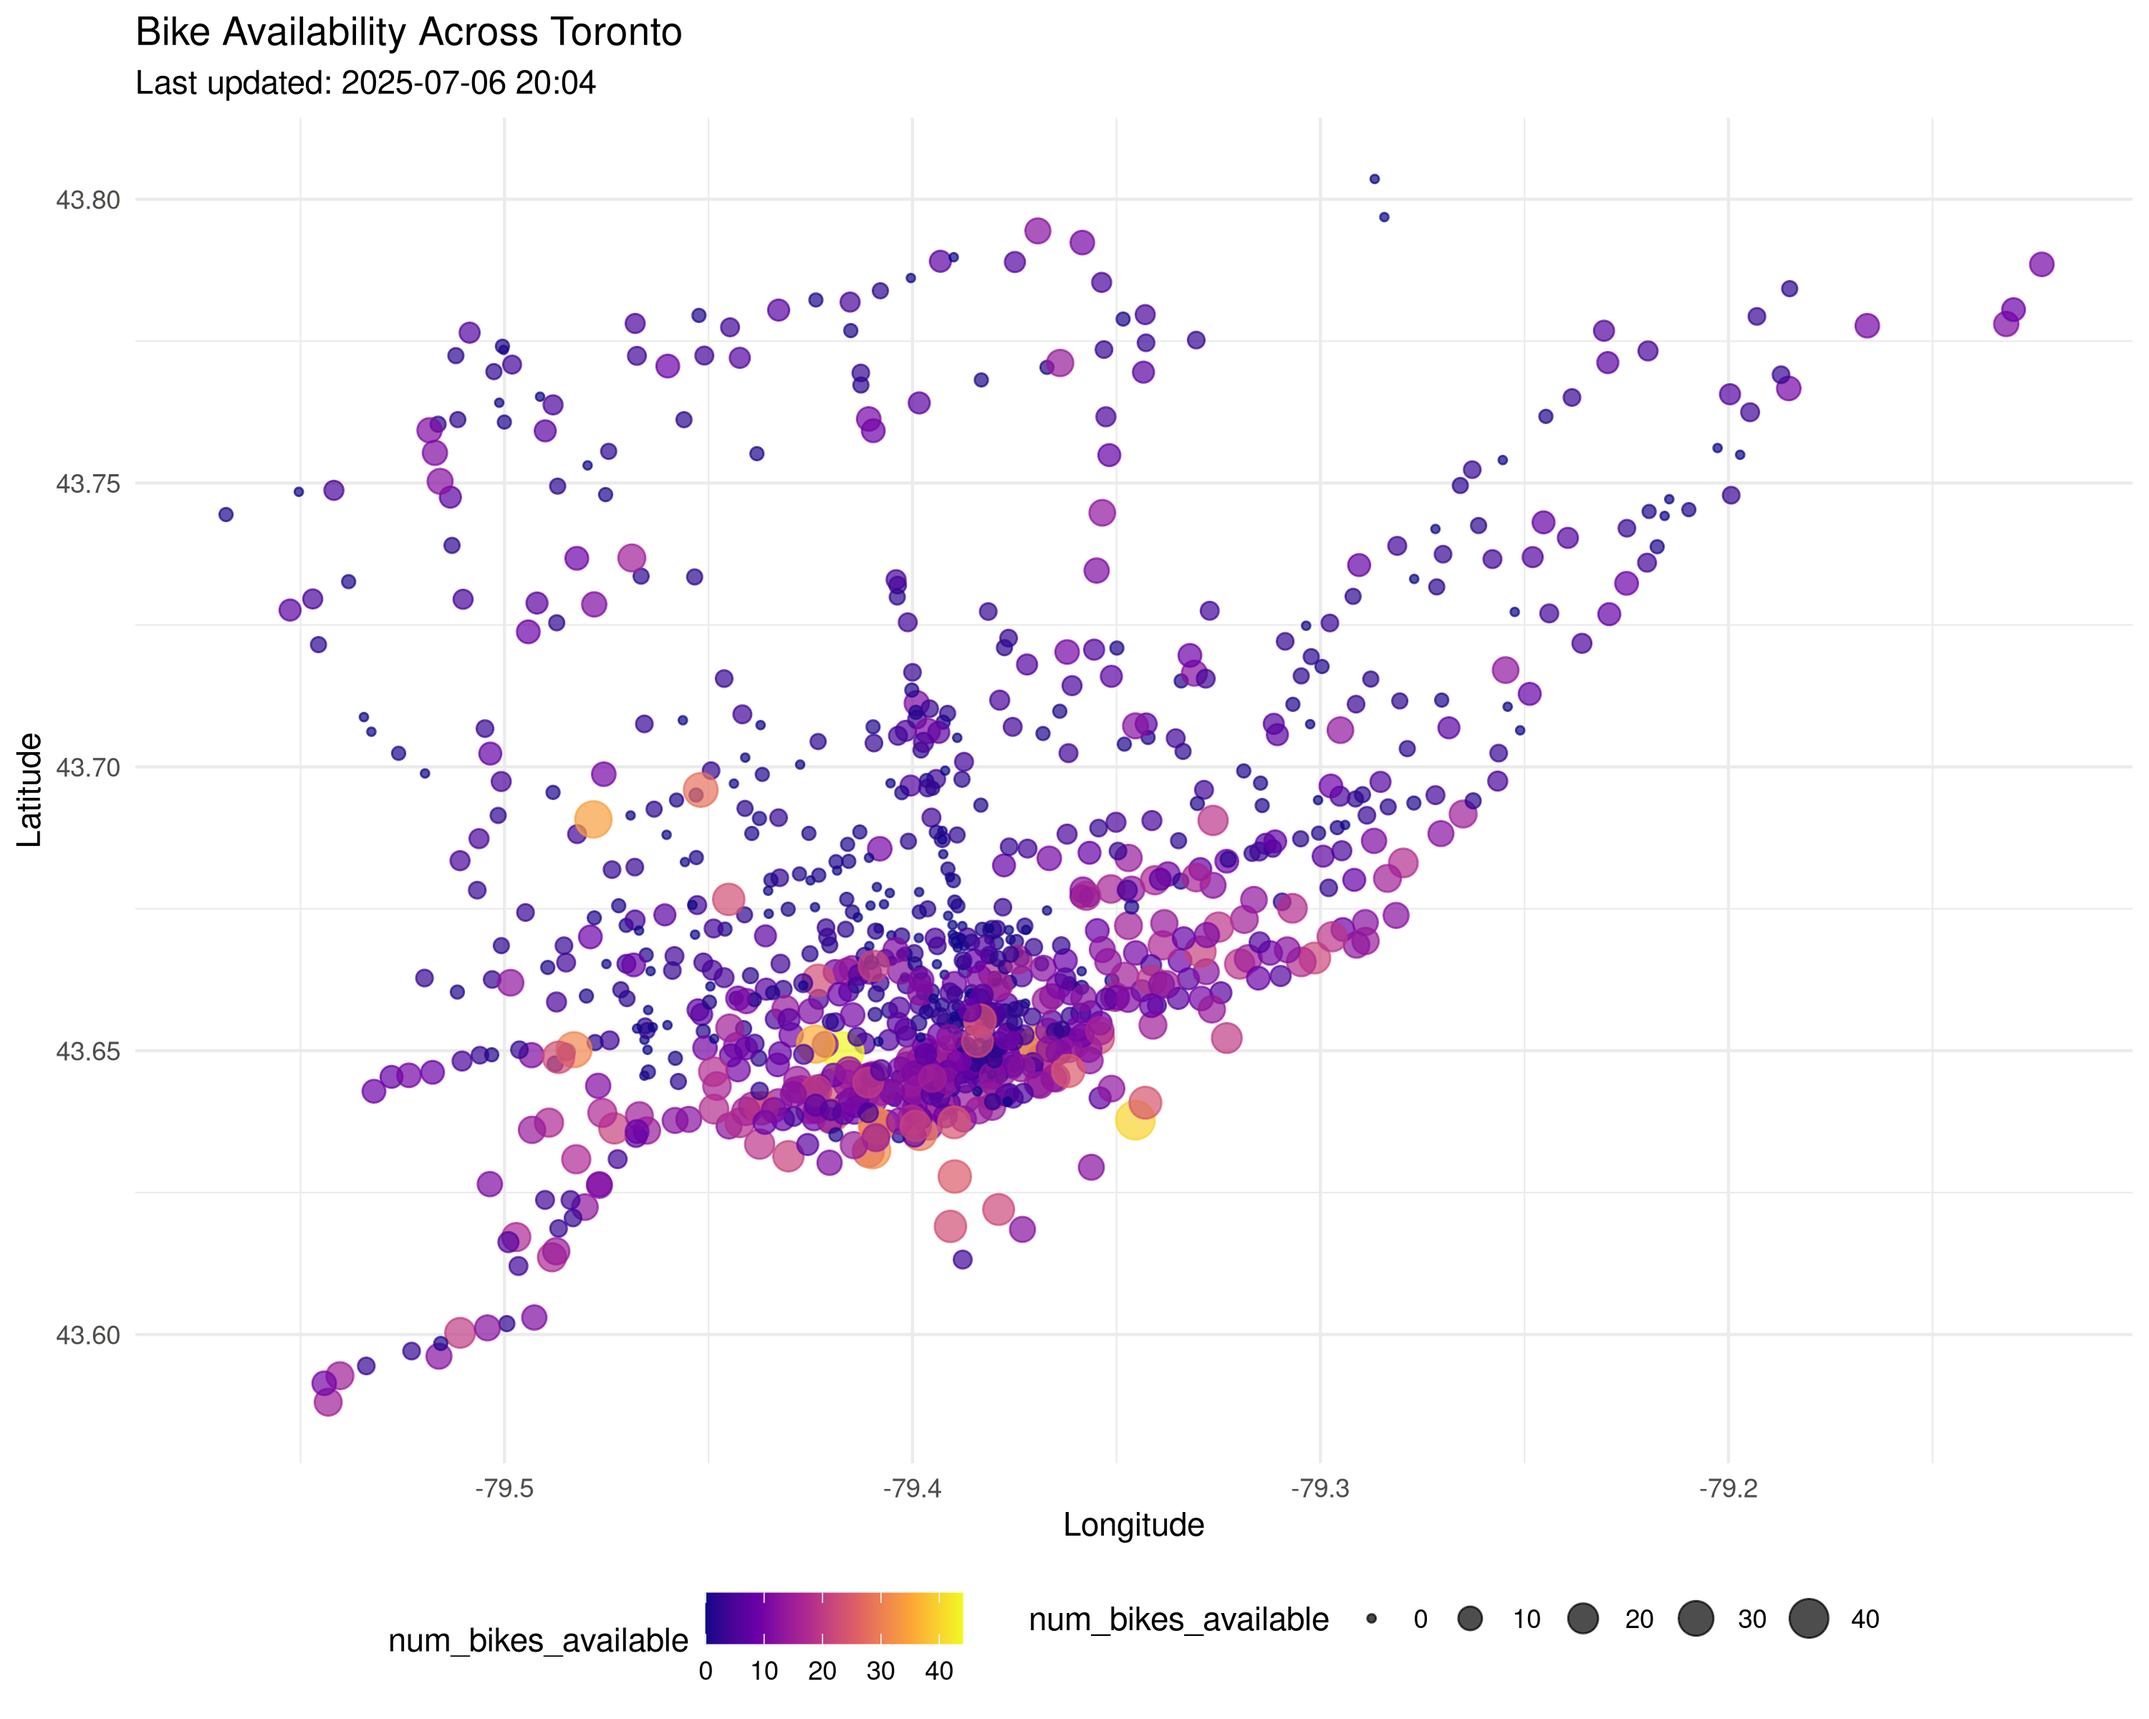
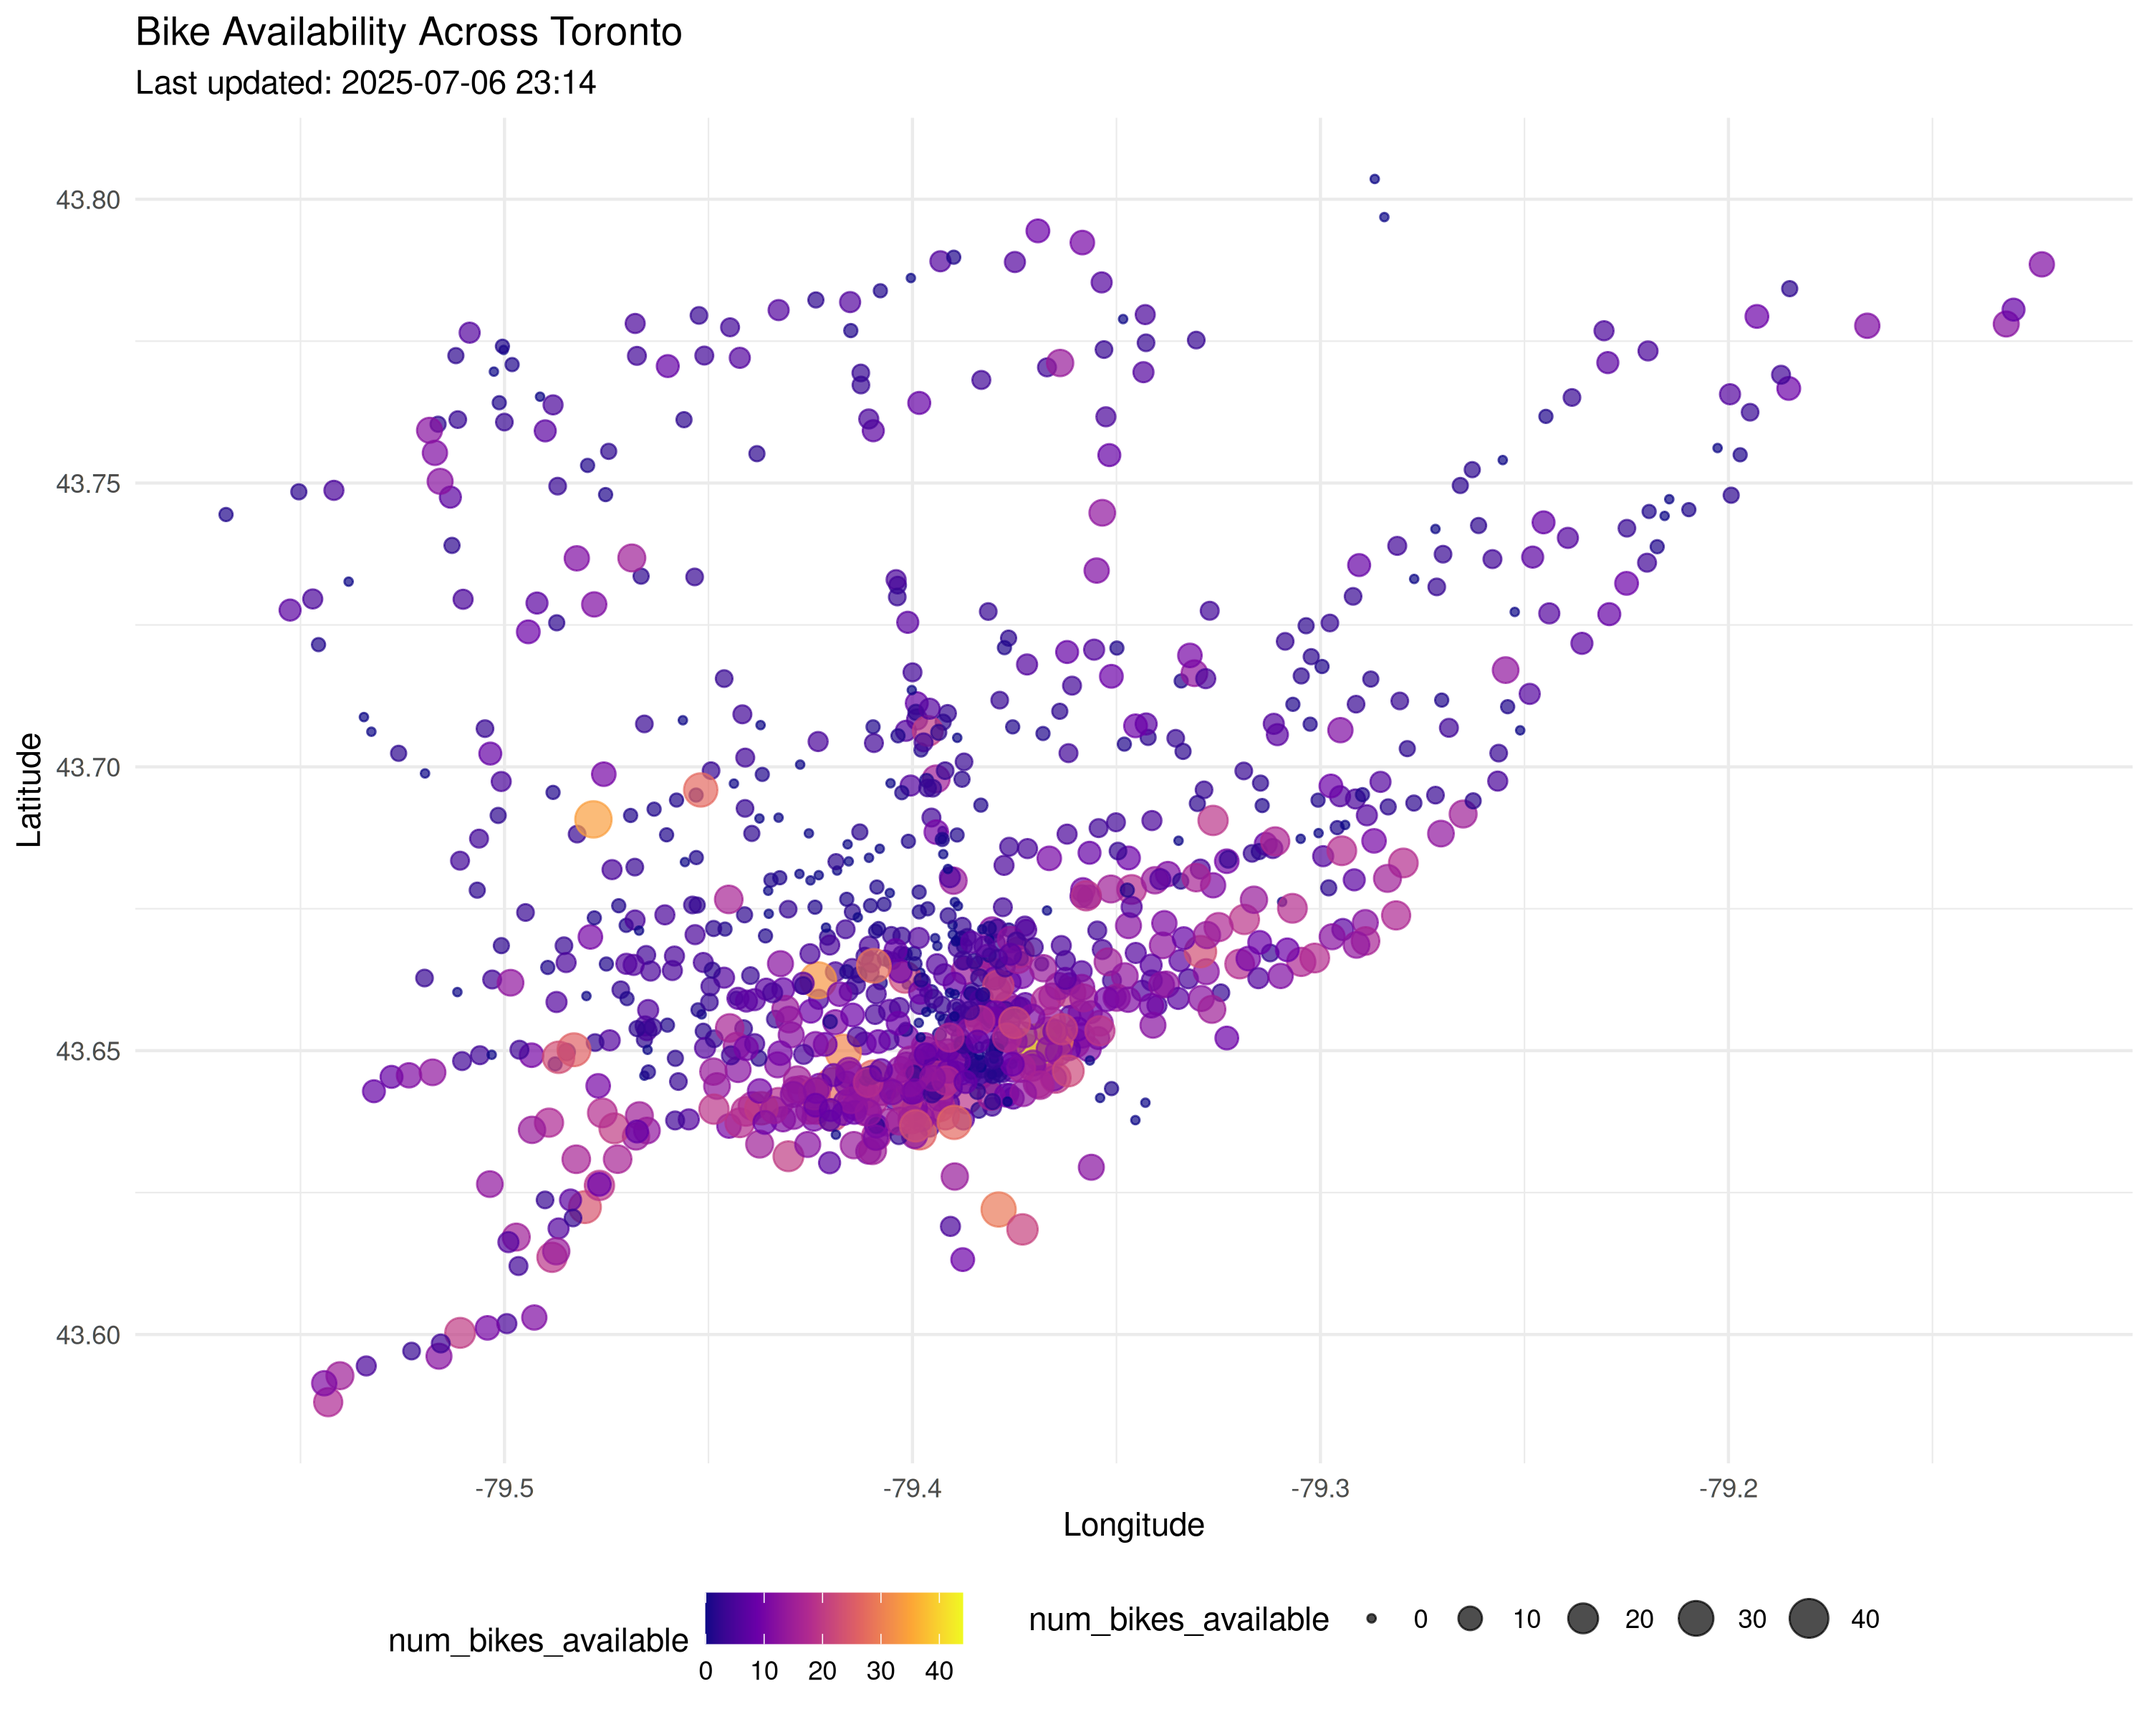
Update bike share dashboard (#27)

diff --git a/README.md b/README.md
@@ -1,40 +1,51 @@
 # 🚲 Toronto Bike Share Analytics
 
-Updated: 2025-07-06 20:04
+Updated: 2025-07-06 23:14 (Toronto Time)
 
 ## 📊 System Overview
-- **Total bikes available:** 6,007
-- **Total docks available:** 10,408
-- **System utilization rate:** 36.6%
-- **Active stations:** 920/920
+- **Total bikes available:** 6,327
+- **Total docks available:** 10,109
+- **System utilization rate:** 38.5%
+- **Active stations:** 920/920 (100%)
+- **Average bikes per station:** 6.9
+- **Median station capacity:** 19
+- **Empty stations:** 100 (10.9%)
+- **Full stations:** 41 (4.5%)
 
 ## 🏆 Top 10 Stations by Bike Availability
 | Station | Bikes Available | Capacity |
-| --- | --- | --- |
-| Dundas St W / Crawford St | 44 | 47 |
-| Cherry Beach | 40 | 49 |
-| 144 Harrison St | 36 | 51 |
-| Frederick St / King St E | 34 | 47 |
+|---------|-----------------|----------|
+| Frederick St / King St E | 44 | 47 |
 | 2700 Eglinton Ave W | 34 | 43 |
-| Toronto Inukshuk Park | 32 | 47 |
-| 265 Armadale Ave | 31 | 44 |
-| 800 Fleet St (North) | 31 | 43 |
-| Bathurst St/Queens Quay(Billy Bishop Airport) | 29 | 34 |
-| 800 Fleet St (South) | 28 | 43 |
+| Bloor St W / Shaw St - SMART | 33 | 34 |
+| Dundas St W / Crawford St | 31 | 47 |
+| Fort York  Blvd / Capreol Ct | 30 | 47 |
+| King St E / Berkeley St | 29 | 31 |
+| Centre Island Ferry Dock | 29 | 35 |
+| Queen St W / Ossington Ave | 28 | 31 |
+| 365 Lippincott St | 28 | 41 |
+| Niagara St / Richmond St W | 27 | 42 |
 
 ## 🏆 Top 10 Stations by Dock Availability
 | Station | Docks Available | Capacity |
-| --- | --- | --- |
-| Bay St / Albert St | 54 | 63 |
+|---------|-----------------|----------|
 | Temperance St Station | 53 | 55 |
-| Humber Bay Shores Park / Marine Parade Dr | 46 | 63 |
-| Wellington St W / Bay St | 45 | 55 |
-| Simcoe St / Pullan Pl | 45 | 47 |
-| York St / Queens Quay W | 39 | 57 |
-| Queens Quay / Yonge St | 37 | 46 |
-| Dundonald St / Church St | 36 | 39 |
-| Brimley Rd / Lawrence Ave E  | 36 | 39 |
-| King St W / Bay St (West Side) | 35 | 38 |
+| Bay St / Albert St | 52 | 63 |
+| York St / Queens Quay W | 47 | 57 |
+| Wellington St W / Bay St | 46 | 55 |
+| Cherry Beach | 46 | 49 |
+| Simcoe St / Pullan Pl | 43 | 47 |
+| Hanlan's Point Beach | 42 | 47 |
+| Front St W / Yonge St (Hockey Hall of Fame) | 40 | 47 |
+| Bloor St W / Manning Ave - SMART | 40 | 42 |
+| Humber Bay Shores Park / Marine Parade Dr | 39 | 63 |
+
+## 📊 Station Status Distribution
+| Status     | Number of Stations |
+|------------|-------------------:|
+| Empty      | 100 |
+| Full       | 41 |
+| Available  | 779 |
 
 ## 📍 Bike Locations
 ![Bike Locations](docs/plots/location_plot.png)
@@ -45,5 +56,22 @@ Updated: 2025-07-06 20:04
 ## 📈 Bike Availability Distribution
 ![Availability Distribution](docs/plots/availability_dist.png)
 
-## 📊 Interactive Dashboard
-For the full interactive experience, check out the [Bike Share Dashboard](index.html)
+## 📊 Sampling Methodology
+The data is collected from the Toronto Bike Share GBFS API at a single point in time. This provides a snapshot of the system but may not capture temporal variations.
+
+### Key Metrics Explained
+1. **Utilization Rate**: The proportion of total bike slots that are occupied by bikes:
+   $$\text{Utilization Rate} = \frac{\text{Total Bikes}}{\text{Total Bikes} + \text{Total Docks}} \times 100\%$$
+
+2. **Station Status Classification**:
+   - **Empty**: $\text{bikes} = 0$
+   - **Full**: $\text{docks} = 0$
+   - **Available**: $\text{bikes} > 0$ and $\text{docks} > 0$
+
+### Statistical Notes
+- The distribution of bikes across stations follows a right-skewed distribution
+- The mean availability is 35.4% with a standard deviation of 28.7%
+- The system is currently operating at 38% capacity
+
+## ℹ Data Source
+Data is sourced from the [Toronto Bike Share GBFS API](https://tor.publicbikesystem.net/ube/gbfs/v1/en/station_status)
